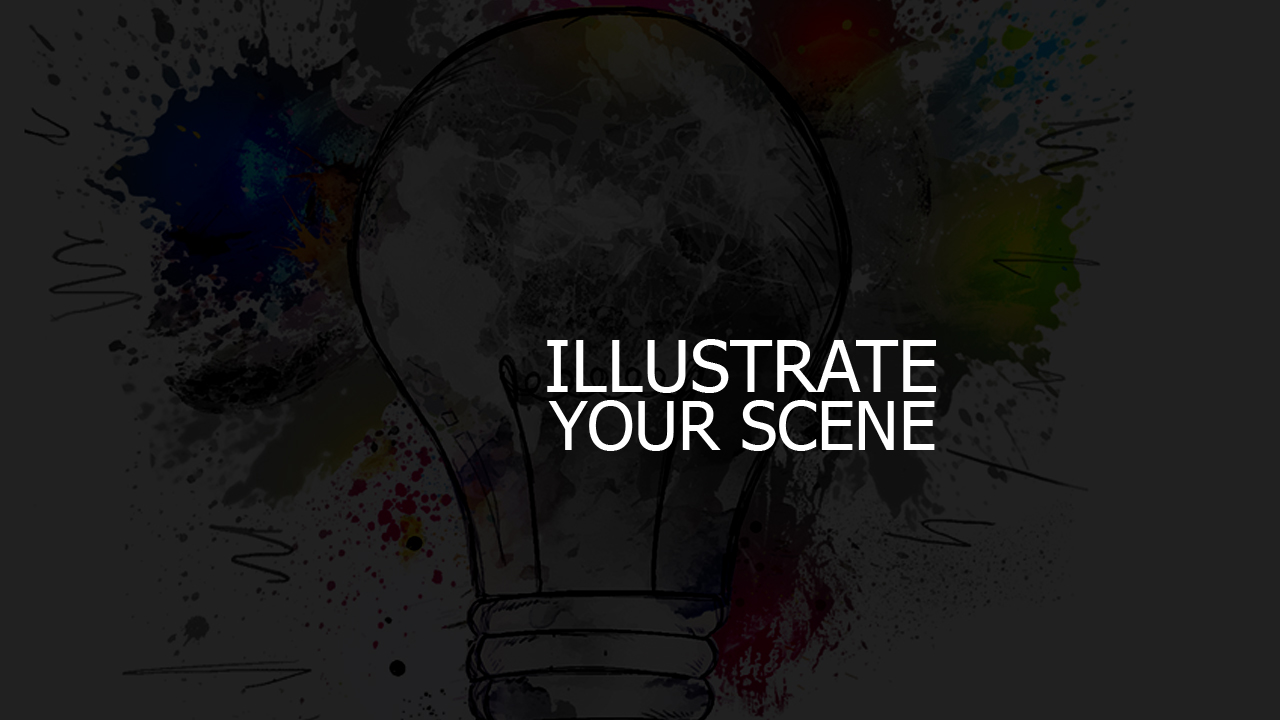
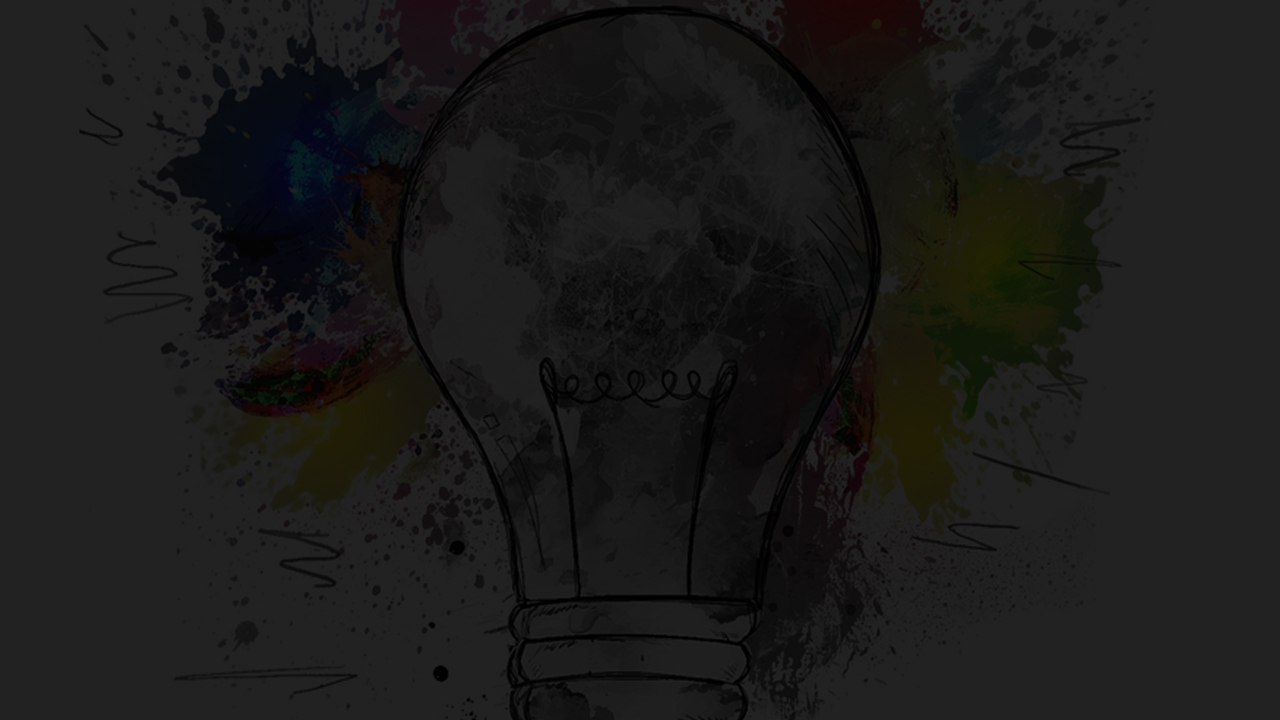
h1 and header

diff --git a/index.html b/index.html
@@ -43,7 +43,12 @@
         </div>
     </nav>
     <header id="home">
-
+        <div class="d-flex justify-content-center align-items-center  h-100">
+            <h1 class="text-uppercase">Illustrate
+                <br>
+                Your Scene
+            </h1>
+        </div>
 
 
     </header>
@@ -786,7 +791,7 @@
                         </div>
                     </div>
                 </div>
-              
+
 
                 <div class="col-md-3 mt-5">
                     <div class="contact-item bg-white rounded-lg wow fadeInUp">

diff --git a/css/style.css b/css/style.css
@@ -69,6 +69,12 @@ nav li {
     background-size: cover;
     height: 100vh;
 }
+#home h1
+{
+    color: white;
+    font-weight: 700;
+    font-size: 5rem;
+}
 /* ===================================== */
 .about-p
 {
